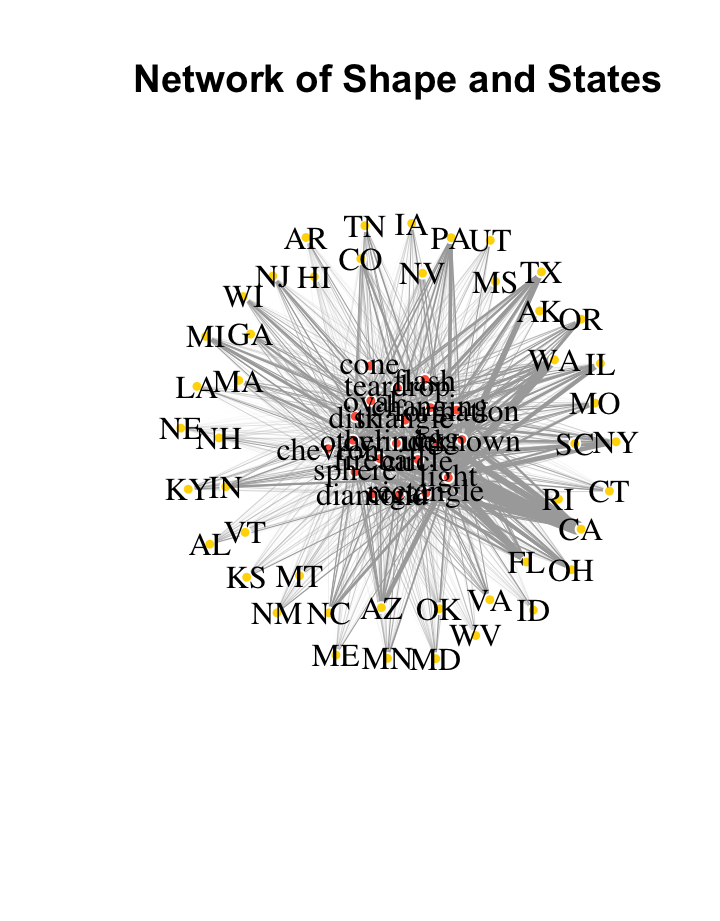
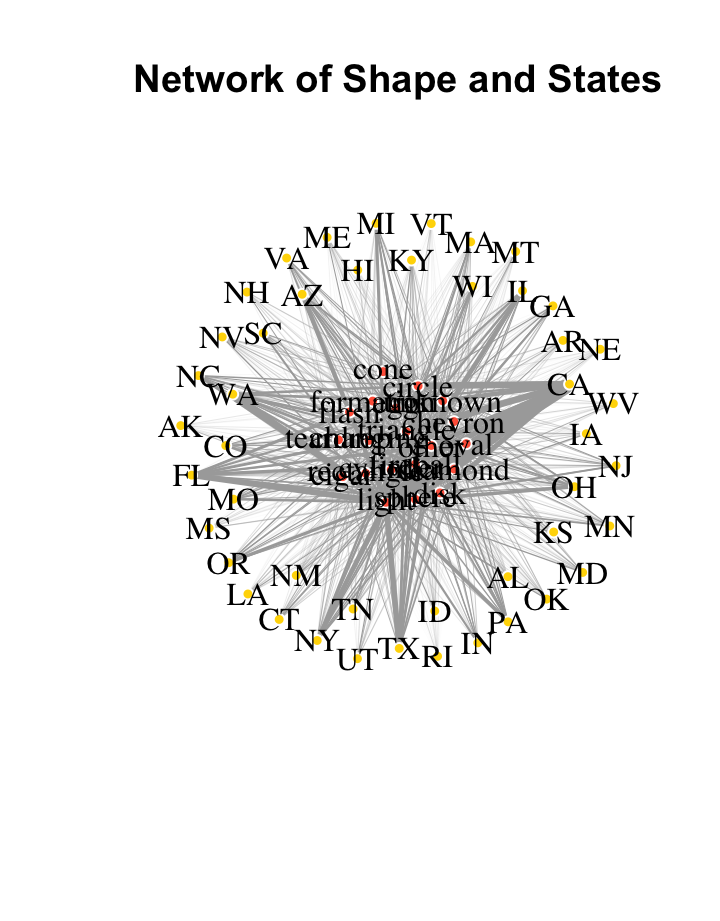
A7

Changed region(s): [[0.2139, 0.2128, 0.8861, 0.7296]]

diff --git a/docs/Assignment7.html b/docs/Assignment7.html
@@ -12,7 +12,7 @@
 <meta name="author" content="Qian Yi" />
 
 
-<title>Visualization A6 Geospatial Graphs</title>
+<title>Assignment7 Network</title>
 
 <script src="site_libs/jquery-1.11.3/jquery.min.js"></script>
 <meta name="viewport" content="width=device-width, initial-scale=1" />
@@ -302,31 +302,21 @@ $(document).ready(function () {
 
 
 
-<h1 class="title toc-ignore">Visualization A6 Geospatial Graphs</h1>
+<h1 class="title toc-ignore">Assignment7 Network</h1>
 <h4 class="author">Qian Yi</h4>
-<h4 class="date">12/8/2020</h4>
+<h4 class="date">11/4/2020</h4>
 
 </div>
 
 
-<div id="draw-choropleths-with-chosen-party-democrat" class="section level4">
-<h4>Draw choropleths with chosen party: democrat</h4>
-</div>
-<div id="grographical-plots-for-tx" class="section level4">
-<h4>Grographical plots for TX</h4>
-<p><img src="Assignment6_files/figure-html/unnamed-chunk-12-1.png" width="2400" style="display: block; margin: auto;" /></p>
-</div>
-<div id="grographical-plots-for-ca" class="section level4">
-<h4>Grographical plots for CA</h4>
-<p><img src="Assignment6_files/figure-html/unnamed-chunk-13-1.png" width="2400" style="display: block; margin: auto;" /></p>
-</div>
-<div id="grographical-plots-for-pa" class="section level4">
-<h4>Grographical plots for PA</h4>
-<p><img src="Assignment6_files/figure-html/unnamed-chunk-14-1.png" width="2400" style="display: block; margin: auto;" /></p>
-</div>
+<p><img src="Assignment7_files/figure-html/unnamed-chunk-6-1.png" width="1440" style="display: block; margin: auto;" /></p>
 <div id="discussion-of-the-visualization" class="section level3">
 <h3>Discussion of the Visualization</h3>
-<p>For Texas, the counties with higher democrat vote proportions had relatively higher unemployment rates during the year of 2008, 2012 and 2016; For California, the counties in the middle and very south areas had relatively higher unemployment rate, but overall, the counties with higher democrat vote proportions had relatively lower unemployment rates;For Pennsylvania, the counties with higher democrat vote proportions had relatively higher unemployment rates during the year of 2008, 2012 but not for the year of 2016.</p>
+<ul>
+<li><p>As the graph shown above, the top 10 migration destinations of New York, Texas, Maryland and California were displayed.</p></li>
+<li><p>It seems that Florida and Arizona were popular places for people to migrate, maybe due to the warm weather.</p></li>
+<li><p>It is also obvious that: Compared with Maryland, the other 3 states (California, Texas and New York) had more people to move away during the previous year.</p></li>
+</ul>
 </div>
 
 

diff --git a/docs/Assignment5.html b/docs/Assignment5.html
@@ -285,6 +285,9 @@ $(document).ready(function () {
   <a href="Assignment6.html">Visualization A6</a>
 </li>
 <li>
+  <a href="Assignment7.html">Visualization A7</a>
+</li>
+<li>
   <a href="project.html">Project</a>
 </li>
       </ul>

diff --git a/docs/about.html b/docs/about.html
@@ -284,6 +284,9 @@ $(document).ready(function () {
   <a href="Assignment6.html">Visualization A6</a>
 </li>
 <li>
+  <a href="Assignment7.html">Visualization A7</a>
+</li>
+<li>
   <a href="project.html">Project</a>
 </li>
       </ul>

diff --git a/docs/index.html b/docs/index.html
@@ -284,6 +284,9 @@ $(document).ready(function () {
   <a href="Assignment6.html">Visualization A6</a>
 </li>
 <li>
+  <a href="Assignment7.html">Visualization A7</a>
+</li>
+<li>
   <a href="project.html">Project</a>
 </li>
       </ul>
